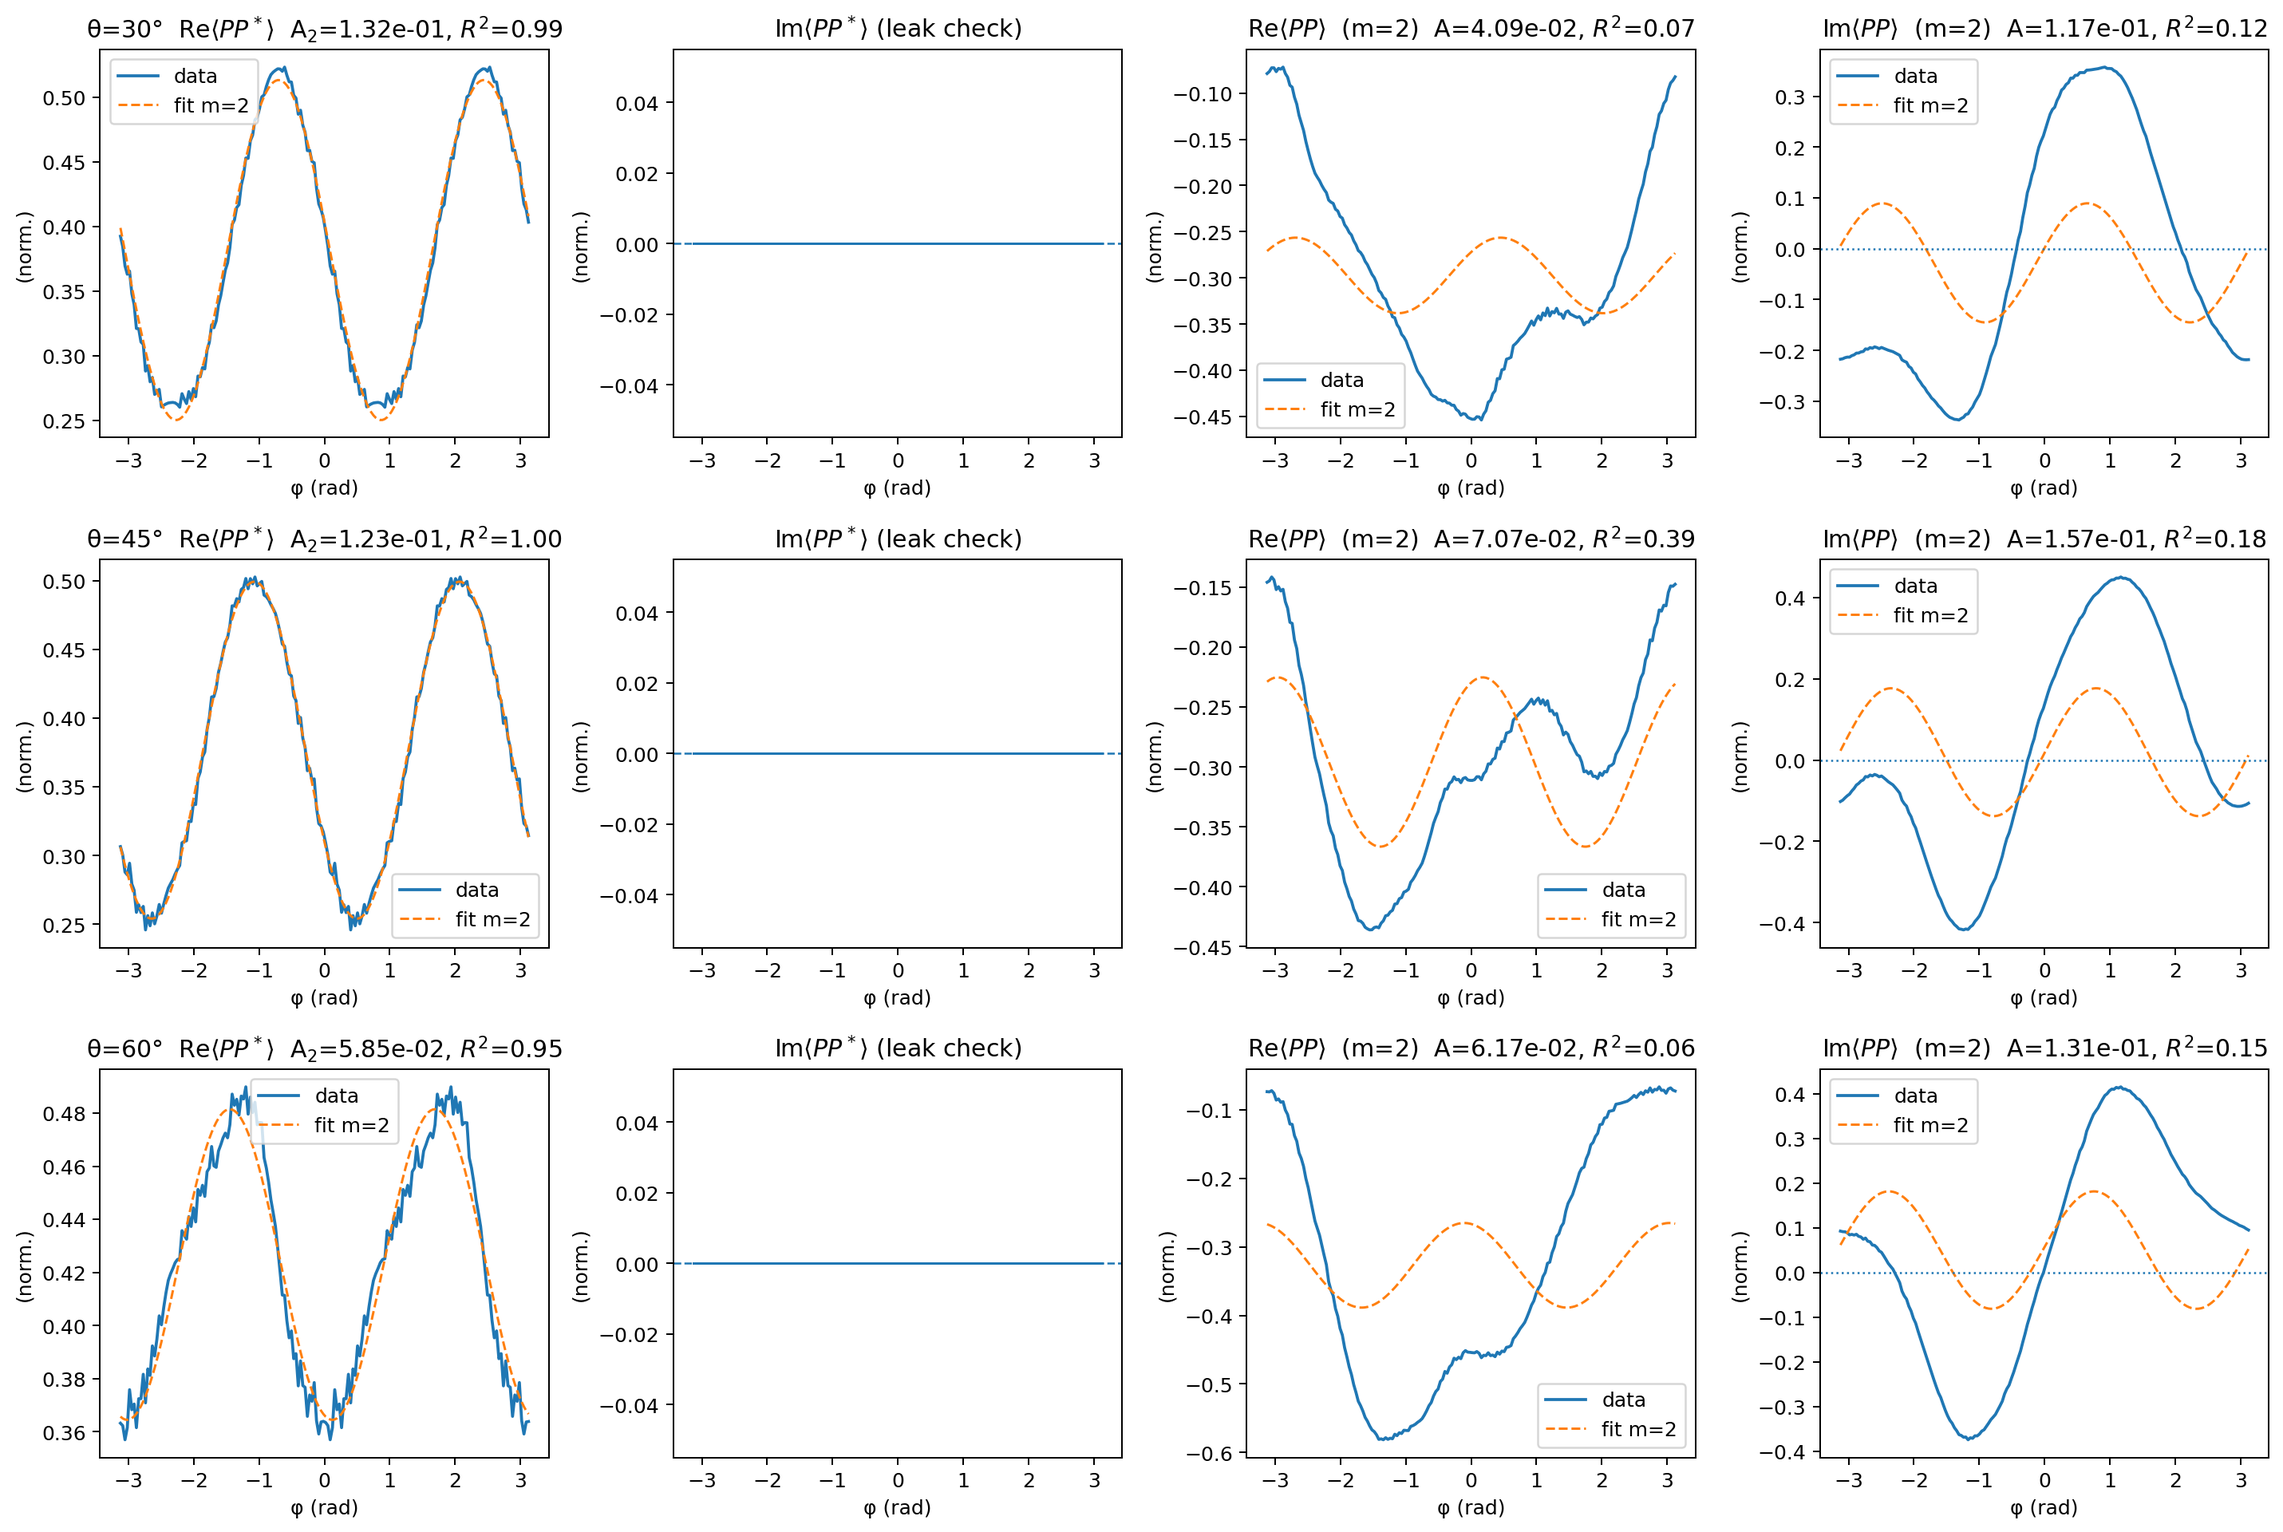
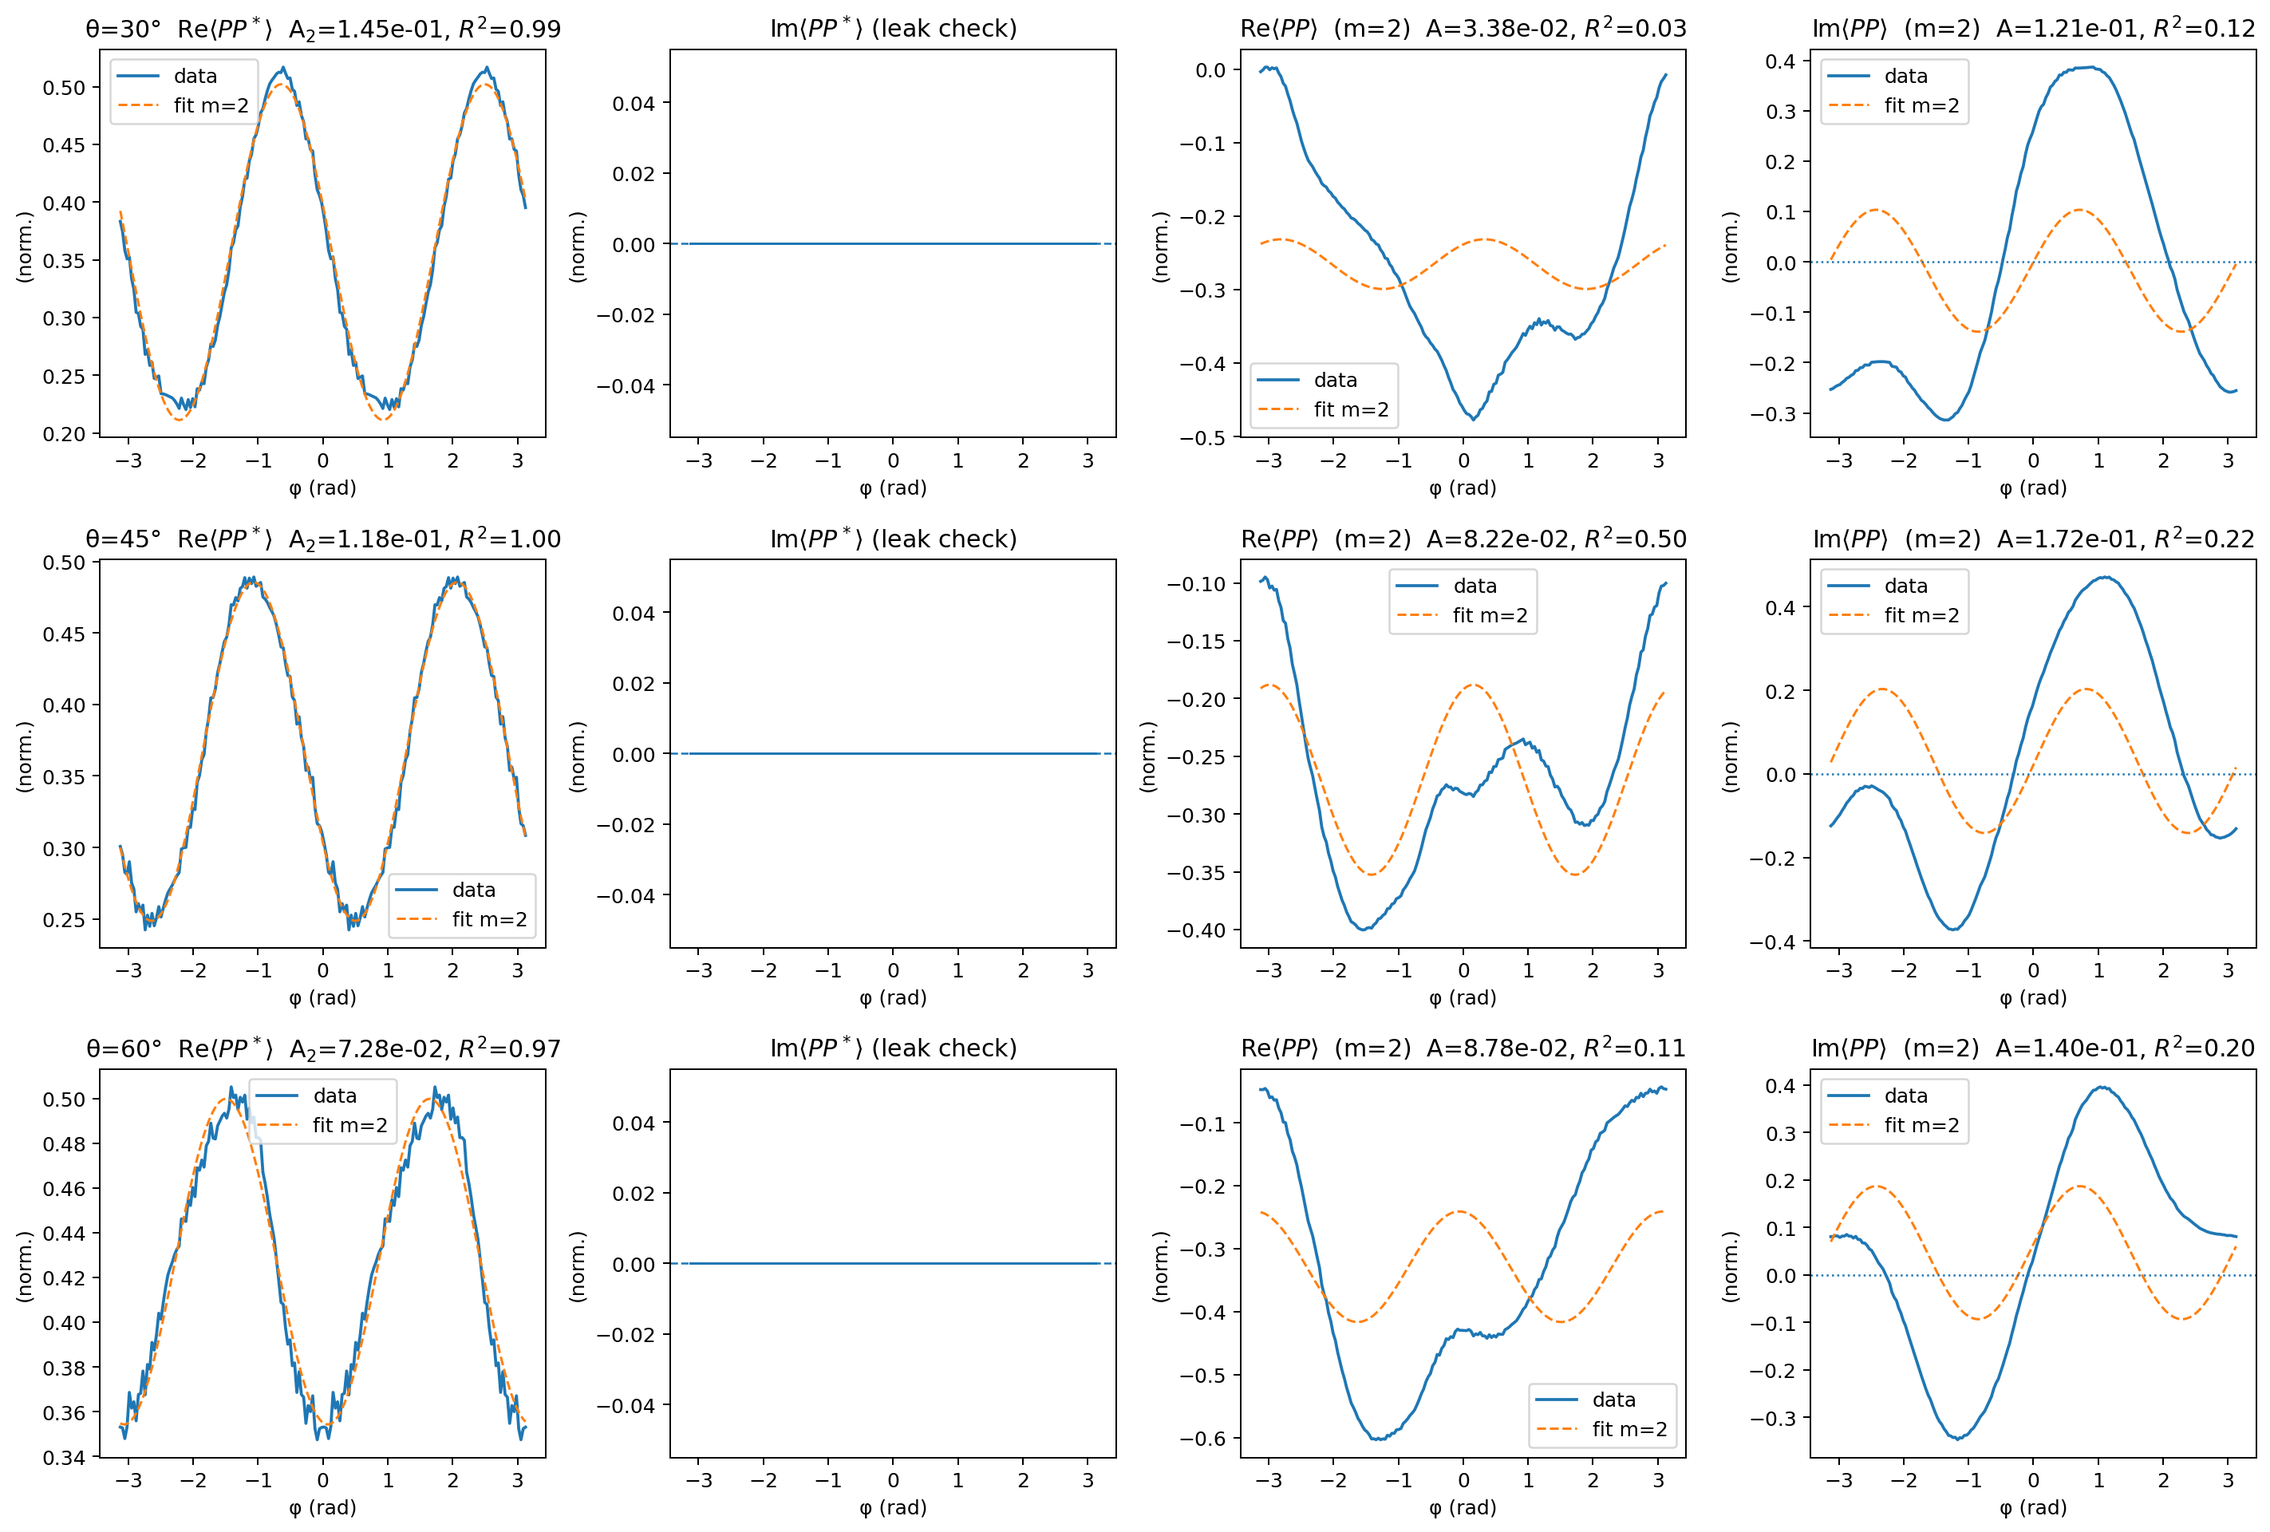
Update anisotropic turbulence validation script with enhanced features and improved output. Modified `Anisotropic turbulence - theory_exp_validation.py` to include a broader range of angles for analysis, refined the handling of Faraday rotation, and improved the output file naming convention. Added 

diff --git a/faradays_angles_stats/lp_structure_tests/Anisotropic turbulence/Anisotropic turbulence - theory_exp_validation.py b/faradays_angles_stats/lp_structure_tests/Anisotropic turbulence/Anisotropic turbulence - theory_exp_validation.py
@@ -4,29 +4,26 @@ import matplotlib.pyplot as plt
 
 # ------------------ USER SETTINGS ------------------ #
 filename   = r"D:\Рабочая папка\GitHub\AstroTurbulence\faradays_angles_stats\lp_structure_tests\ms01ma08.mhd_w.00300.vtk.h5"
-theta_list = [30, 45, 60]
+theta_list = [0, 15, 30, 45, 60, 75, 90]
 
-N          = 256       # POS pixels (use 512 after testing)
-nsamp      = 192       # samples along LOS
-p          = 3.0       # CR electron index (~3)
-R0_frac    = 0.30      # ring radius fraction of half-image
-ring_width = 1.0       # ring thickness [pix]
-nbins_phi  = 181       # azimuth bins
-m_orders   = (2, 4)    # fit harmonics for <PP> (spin-2 & spin-4)
+N          = 256
+nsamp      = 192
+p          = 3.0
+R0_frac    = 0.30
+ring_width = 2.5          # wider ring → better S/N
+nbins_phi  = 181
 
-# Mean field boost (optional)
-add_uniform_B0 = False
-B0_amp_factor  = 0.5   # × Brms along +z
+add_uniform_B0 = True
+B0_amp_factor  = 0.5       # × Brms along +z
 
-# Internal Faraday rotation (turn ON to get nonzero Im for <PP>)
+# Faraday: OFF by default (turn ON to get physical Im in <PP>)
 include_faraday = False
-ne0             = 1.0       # arbitrary units (uniform ne)
-lambda_m        = 0.21      # wavelength [m]
-rm_coeff        = 0.812     # rad m^-2 per (cm^-3 μG pc); treated relatively here
+ne0             = 1.0
+lambda_m        = 0.21
+rm_coeff        = 0.812
 
 savefig   = True
-out_name  = "lp16_compare_PP_PPc_R{:.2f}_N{}_ns{}_{}".format(R0_frac, N, nsamp,
-                     "faraday" if include_faraday else "nofaraday")
+out_name  = f"lp16_fix_PP_PPc_R{R0_frac:.2f}_N{N}_ns{nsamp}_" + ("faraday" if include_faraday else "nofaraday")
 # --------------------------------------------------- #
 
 def load_cube(fname):
@@ -51,7 +48,7 @@ def geom(theta_deg):
 def make_pos_idx(N, nsamp, L, nx, n_hat, e1_hat, e2_hat):
     i_idx, j_idx = np.indices((N,N), dtype=np.float32)
     x0 = ((i_idx-N/2)/N)[...,None]*L*e1_hat + ((j_idx-N/2)/N)[...,None]*L*e2_hat  # (N,N,3)
-    s  = np.linspace(-L/2, L/2, nsamp, dtype=np.float32)                          # (nsamp,)
+    s  = np.linspace(-L/2, L/2, nsamp, dtype=np.float32)
     ds = float(s[1]-s[0])
     los_offsets = (s[:,None]*n_hat[None,:])[None,None,:,:]                         # (1,1,nsamp,3)
     pos_phys = x0[...,None,:] + los_offsets                                       # (N,N,nsamp,3)
@@ -62,13 +59,13 @@ def make_pos_idx(N, nsamp, L, nx, n_hat, e1_hat, e2_hat):
 def interp(field, pos_idx, N, nsamp):
     return ndi.map_coordinates(field, pos_idx, order=1, mode="wrap").reshape(N,N,nsamp)
 
-def build_P(Bx,By,Bz, pos_idx, N, nsamp, n_hat, p, ds, B0_amp=None,
+def build_P(Bx,By,Bz, pos_idx, N, nsamp, n_hat, p, ds, B0_amp=0.0,
             include_faraday=False, ne0=1.0, lambda_m=0.21, rm_coeff=0.812):
     Bx_l, By_l, Bz_l = (interp(Bx,pos_idx,N,nsamp),
                          interp(By,pos_idx,N,nsamp),
                          interp(Bz,pos_idx,N,nsamp))
     B = np.stack((Bx_l,By_l,Bz_l), axis=-1)                                    # (N,N,nsamp,3)
-    if B0_amp is not None and B0_amp>0:
+    if B0_amp>0:
         B += np.array([0,0,B0_amp], dtype=B.dtype)[None,None,None,:]
 
     B_par  = np.tensordot(B, n_hat, axes=([-1],[0]))                           # (N,N,nsamp)
@@ -78,7 +75,7 @@ def build_P(Bx,By,Bz, pos_idx, N, nsamp, n_hat, p, ds, B0_amp=None,
     psi    = 0.5*np.arctan2(B_perp[...,1], B_perp[...,0])
 
     if include_faraday:
-        Phi = rm_coeff * ne0 * np.cumsum(B_par, axis=-1) * ds                  # relative units
+        Phi = rm_coeff * ne0 * np.cumsum(B_par, axis=-1) * ds
         phase = 2.0*(psi + (lambda_m**2)*Phi)
     else:
         phase = 2.0*psi
@@ -88,74 +85,73 @@ def build_P(Bx,By,Bz, pos_idx, N, nsamp, n_hat, p, ds, B0_amp=None,
 
 def hann2d(N):
     w1 = np.hanning(N); W = np.outer(w1,w1)
-    # normalize so mean power not dramatically changed
     return (W / W.mean()).astype(np.float32)
 
-def correlate_PP(P, apodize=True, demean=True):
-    """Return both correlators on the same apodized/demeaned map."""
+def correlate_both(P, apodize=True, demean=True):
+    """Return C_* = <PP*> (real) and C = <PP> (complex)."""
     if demean:
         P = P - np.mean(P)
     if apodize:
-        W = hann2d(P.shape[0])
-        P = P * W
+        P = P * hann2d(P.shape[0])
 
     F = np.fft.fft2(P)
 
-    # 1) C_* = <P P*>  (MUST be real)
-    power = (np.abs(F)**2).astype(np.float64)               # strictly real
-    Cstar = np.fft.ifft2(power)                             # numerical C_* (complex dtype)
-    Cstar = np.fft.fftshift(Cstar).real                     # force real
+    # 1) C_* = <P P*>  ⇒ IFFT(|F|^2)  (strictly real)
+    Cstar = np.fft.ifft2(np.abs(F)**2)
+    Cstar = np.fft.fftshift(Cstar).real
 
-    # 2) C = <P P>  (complex; carries parity info)
-    Sspec = F * F                                           # NOT Hermitian
-    C = np.fft.ifft2(Sspec)
-    C = np.fft.fftshift(C)                                  # complex
+    # 2) C   = <P P>    ⇒ IFFT( F(k) * F(-k) )
+    F_c   = np.fft.fftshift(F)
+    F_neg = F_c[::-1, ::-1]                      # values at -k
+    Spec  = F_c * F_neg
+    C     = np.fft.ifft2(np.fft.ifftshift(Spec))
+    C     = np.fft.fftshift(C)
 
-    # Optional normalization by zero-lag of C_*
+    # Normalize by zero-lag of C_*
     C0 = Cstar[Cstar.shape[0]//2, Cstar.shape[1]//2]
     if C0 != 0:
         Cstar = Cstar / C0
         C     = C / C0
-
     return Cstar, C
 
 def ring_azimuth(arr, R0_frac, ring_width, nbins):
-    """Azimuthal average on a ring; returns (phi_centers, counts, avg_values)."""
     N = arr.shape[0]
     x = np.arange(N) - N/2
     X,Y = np.meshgrid(x,x, indexing='ij')
     R   = np.hypot(X,Y)
     phi = np.arctan2(Y,X)
-
     R0   = R0_frac*(N/2.0)
     mask = np.abs(R - R0) < ring_width
-
     bins   = np.linspace(-np.pi, np.pi, nbins)
     centers= 0.5*(bins[:-1] + bins[1:])
     counts,_ = np.histogram(phi[mask], bins=bins)
-
-    vals,_ = np.histogram(phi[mask], bins=bins, weights=arr[mask])
-    with np.errstate(divide='ignore', invalid='ignore'):
-        avg = np.nan_to_num(vals / np.maximum(counts,1))
+    vals,_   = np.histogram(phi[mask], bins=bins, weights=arr[mask])
+    avg = np.divide(vals, np.maximum(counts,1), out=np.zeros_like(vals, dtype=np.float64), where=counts>0)
     return centers, counts, avg
 
-def fit_harmonics(phi, y, counts, m):
-    """Weighted fit: y ≈ a0 + ac cos(m phi) + as sin(m phi)."""
+def fit_multi(phi, y, counts, m_list):
+    """Weighted LS fit: y ≈ a0 + Σ_m [a_c^m cos(mφ) + a_s^m sin(mφ)]."""
     w = counts.astype(np.float64)
-    X = np.stack([np.ones_like(phi),
-                  np.cos(m*phi), np.sin(m*phi)], axis=1).astype(np.float64)
-    WX  = w[:,None]*X
-    beta= np.linalg.pinv(X.T @ WX, rcond=1e-12) @ (X.T @ (w*y))
-    yfit= X @ beta
-    # weighted R^2
+    cols = [np.ones_like(phi, dtype=np.float64)]
+    for m in m_list:
+        cols += [np.cos(m*phi), np.sin(m*phi)]
+    X = np.stack(cols, axis=1)
+    WX = w[:,None]*X
+    beta = np.linalg.pinv(X.T @ WX, rcond=1e-12) @ (X.T @ (w*y))
+    yfit = X @ beta
     ybar = (w@y)/np.sum(w) if np.sum(w)>0 else np.mean(y)
-    ssr  = np.sum(w*(y - yfit)**2)
-    sst  = np.sum(w*(y - ybar)**2)
+    ssr  = np.sum(w*(y - yfit)**2); sst = np.sum(w*(y - ybar)**2)
     r2   = 1.0 - ssr/sst if sst>0 else np.nan
-    a0,ac,as_ = beta
-    A   = float(np.hypot(ac,as_))
-    ph0 = float(np.arctan2(as_,ac)/m)   # phase of the m-mode, divided by m
-    return yfit, (a0,ac,as_), A, ph0, r2
+
+    # amplitudes & phases per m
+    amps, phases = {}, {}
+    idx = 1
+    for m in m_list:
+        ac, as_ = beta[idx], beta[idx+1]
+        amps[m]   = float(np.hypot(ac, as_))
+        phases[m] = float(np.arctan2(as_, ac)/m)
+        idx += 2
+    return yfit, beta, r2, amps, phases
 
 # ------------------ MAIN ------------------ #
 (Bx,By,Bz), L, nx, Brms = load_cube(filename)
@@ -174,67 +170,54 @@ for r, theta_deg in enumerate(theta_list):
                  B0_amp=B0_amp, include_faraday=include_faraday,
                  ne0=ne0, lambda_m=lambda_m, rm_coeff=rm_coeff)
 
-    Cstar, C = correlate_PP(P, apodize=True, demean=True)
-    # --- sanity: Im(C_*) leakage should be ~0 everywhere ---
-    Cstar_im_leak = np.abs(np.imag(Cstar)).max()
-    print(f"Leak check Im<C P*> max = {Cstar_im_leak:.3e} (should be ~ machine-0)")
+    Cstar, C = correlate_both(P, apodize=True, demean=True)
+    leak = np.abs(np.imag(Cstar)).max()
+    print(f"Im<PP*> leak = {leak:.3e} (should be ~0)")
 
-    # Ring averages
-    phi, nbin, re_star = ring_azimuth(Cstar.real, R0_frac, ring_width, nbins_phi)
-    _,    _, im_star   = ring_azimuth(Cstar.imag, R0_frac, ring_width, nbins_phi)  # just to plot leak (should be ~0)
+    # --- Ring averages
+    phi, counts, re_star = ring_azimuth(Cstar.real, R0_frac, ring_width, nbins_phi)
+    _,   _,     im_star  = ring_azimuth(Cstar.imag, R0_frac, ring_width, nbins_phi)
 
-    phi2, _, re_pp = ring_azimuth(C.real, R0_frac, ring_width, nbins_phi)
-    _,    _, im_pp = ring_azimuth(C.imag, R0_frac, ring_width, nbins_phi)
+    phi2, counts2, re_pp = ring_azimuth(C.real,  R0_frac, ring_width, nbins_phi)
+    _,    _,      im_pp  = ring_azimuth(C.imag,  R0_frac, ring_width, nbins_phi)
 
-    # --- Fit m=2 on Re<C_*>, this is the LP16 quadrupole for PP* ---
-    yfit2, pars2, A2, ph2, r2 = fit_harmonics(phi, re_star, nbin, m=2)
-    print(f"Re<C P*>: A_m=2={A2:.3e}, phase={ph2:.2f} rad, R^2={r2:.2f}")
-    # Also report any m=1 leakage (should be tiny, tests recentering/apodization)
-    _, _, A1_leak, _, r2_1 = fit_harmonics(phi, re_star, nbin, m=1)
-    print(f"  m=1 leakage (should be small): A={A1_leak:.3e}, R^2={r2_1:.2f}")
+    # --- Fits
+    # Re<PP*>: only m=2 expected
+    yfit_star, _, r2_star, amps_star, ph_star = fit_multi(phi, re_star, counts, m_list=[2])
+    print(f"Re<PP*>: A2={amps_star[2]:.3e}, phase={ph_star[2]:.2f}, R^2={r2_star:.2f}")
 
-    # --- For <PP> (complex), try both m=2 and m=4 and report the better one ---
-    best = None
-    for m in m_orders:
-        _, _, A_re, ph_re, r2_re = fit_harmonics(phi2, re_pp, nbin, m=m)
-        _, _, A_im, ph_im, r2_im = fit_harmonics(phi2, im_pp, nbin, m=m)
-        score = r2_re + r2_im
-        if (best is None) or (score > best[0]):
-            best = (score, m, A_re, ph_re, r2_re, A_im, ph_im, r2_im)
-    score,mopt,A_re,ph_re,r2_re,A_im,ph_im,r2_im = best
-    print(f"<P P>: best m={mopt} | Re: A={A_re:.3e}, φ0={ph_re:.2f}, R^2={r2_re:.2f} | "
-          f"Im: A={A_im:.3e}, φ0={ph_im:.2f}, R^2={r2_im:.2f}")
+    # <PP>: fit m=2 AND m=4 simultaneously
+    yfit_re, _, r2_re, amps_re, ph_re = fit_multi(phi2, re_pp, counts2, m_list=[2,4])
+    yfit_im, _, r2_im, amps_im, ph_im = fit_multi(phi2, im_pp, counts2, m_list=[2,4])
+    print(f"<PP> Re: A2={amps_re[2]:.3e}, A4={amps_re[4]:.3e}, R^2={r2_re:.2f}")
+    print(f"<PP> Im: A2={amps_im[2]:.3e}, A4={amps_im[4]:.3e}, R^2={r2_im:.2f}")
 
     # ---------- PLOTS ----------
     # Re <PP*>
     ax = axes[r,0]
     ax.plot(phi, re_star, lw=1.5, label="data")
-    ax.plot(phi, yfit2,  lw=1.2, ls="--", label="fit m=2")
-    ax.set_title(fr"θ={theta_deg}°  Re$\langle PP^*\rangle$  A$_2$={A2:.2e}, $R^2$={r2:.2f}")
+    ax.plot(phi, yfit_star,  lw=1.2, ls="--", label="fit m=2")
+    ax.set_title(fr"θ={theta_deg}°  Re⟨PP*⟩  A2={amps_star[2]:.2e}, $R^2$={r2_star:.2f}")
     ax.set_xlabel("φ (rad)"); ax.set_ylabel("(norm.)"); ax.legend()
 
-    # Im <PP*> (should be ~0; shows only leakage)
+    # Im <PP*> (leak check)
     ax = axes[r,1]
-    ax.plot(phi, im_star, lw=1.2)
-    ax.axhline(0, ls="--", lw=1)
-    ax.set_title(fr"Im$\langle PP^*\rangle$ (leak check)")
-    ax.set_xlabel("φ (rad)"); ax.set_ylabel("(norm.)")
+    ax.plot(phi, im_star, lw=1.2); ax.axhline(0, ls="--", lw=1)
+    ax.set_title("Im⟨PP*⟩ (≈0)"); ax.set_xlabel("φ (rad)"); ax.set_ylabel("(norm.)")
 
-    # Re <PP> (complex)
-    yfit_re, *_ = fit_harmonics(phi2, re_pp, nbin, m=mopt)
+    # Re <PP>
     ax = axes[r,2]
     ax.plot(phi2, re_pp, lw=1.5, label="data")
-    ax.plot(phi2, yfit_re, lw=1.2, ls="--", label=f"fit m={mopt}")
-    ax.set_title(fr"Re$\langle PP\rangle$  (m={mopt})  A={A_re:.2e}, $R^2$={r2_re:.2f}")
+    ax.plot(phi2, yfit_re, lw=1.2, ls="--", label="fit m=2+4")
+    ax.set_title(fr"Re⟨PP⟩  A2={amps_re[2]:.2e}, A4={amps_re[4]:.2e}, $R^2$={r2_re:.2f}")
     ax.set_xlabel("φ (rad)"); ax.set_ylabel("(norm.)"); ax.legend()
 
     # Im <PP>
-    yfit_im, *_ = fit_harmonics(phi2, im_pp, nbin, m=mopt)
     ax = axes[r,3]
     ax.plot(phi2, im_pp, lw=1.5, label="data")
-    ax.plot(phi2, yfit_im, lw=1.2, ls="--", label=f"fit m={mopt}")
+    ax.plot(phi2, yfit_im, lw=1.2, ls="--", label="fit m=2+4")
     ax.axhline(0, ls=":", lw=1)
-    ax.set_title(fr"Im$\langle PP\rangle$  (m={mopt})  A={A_im:.2e}, $R^2$={r2_im:.2f}")
+    ax.set_title(fr"Im⟨PP⟩  A2={amps_im[2]:.2e}, A4={amps_im[4]:.2e}, $R^2$={r2_im:.2f}")
     ax.set_xlabel("φ (rad)"); ax.set_ylabel("(norm.)"); ax.legend()
 
 plt.tight_layout()
